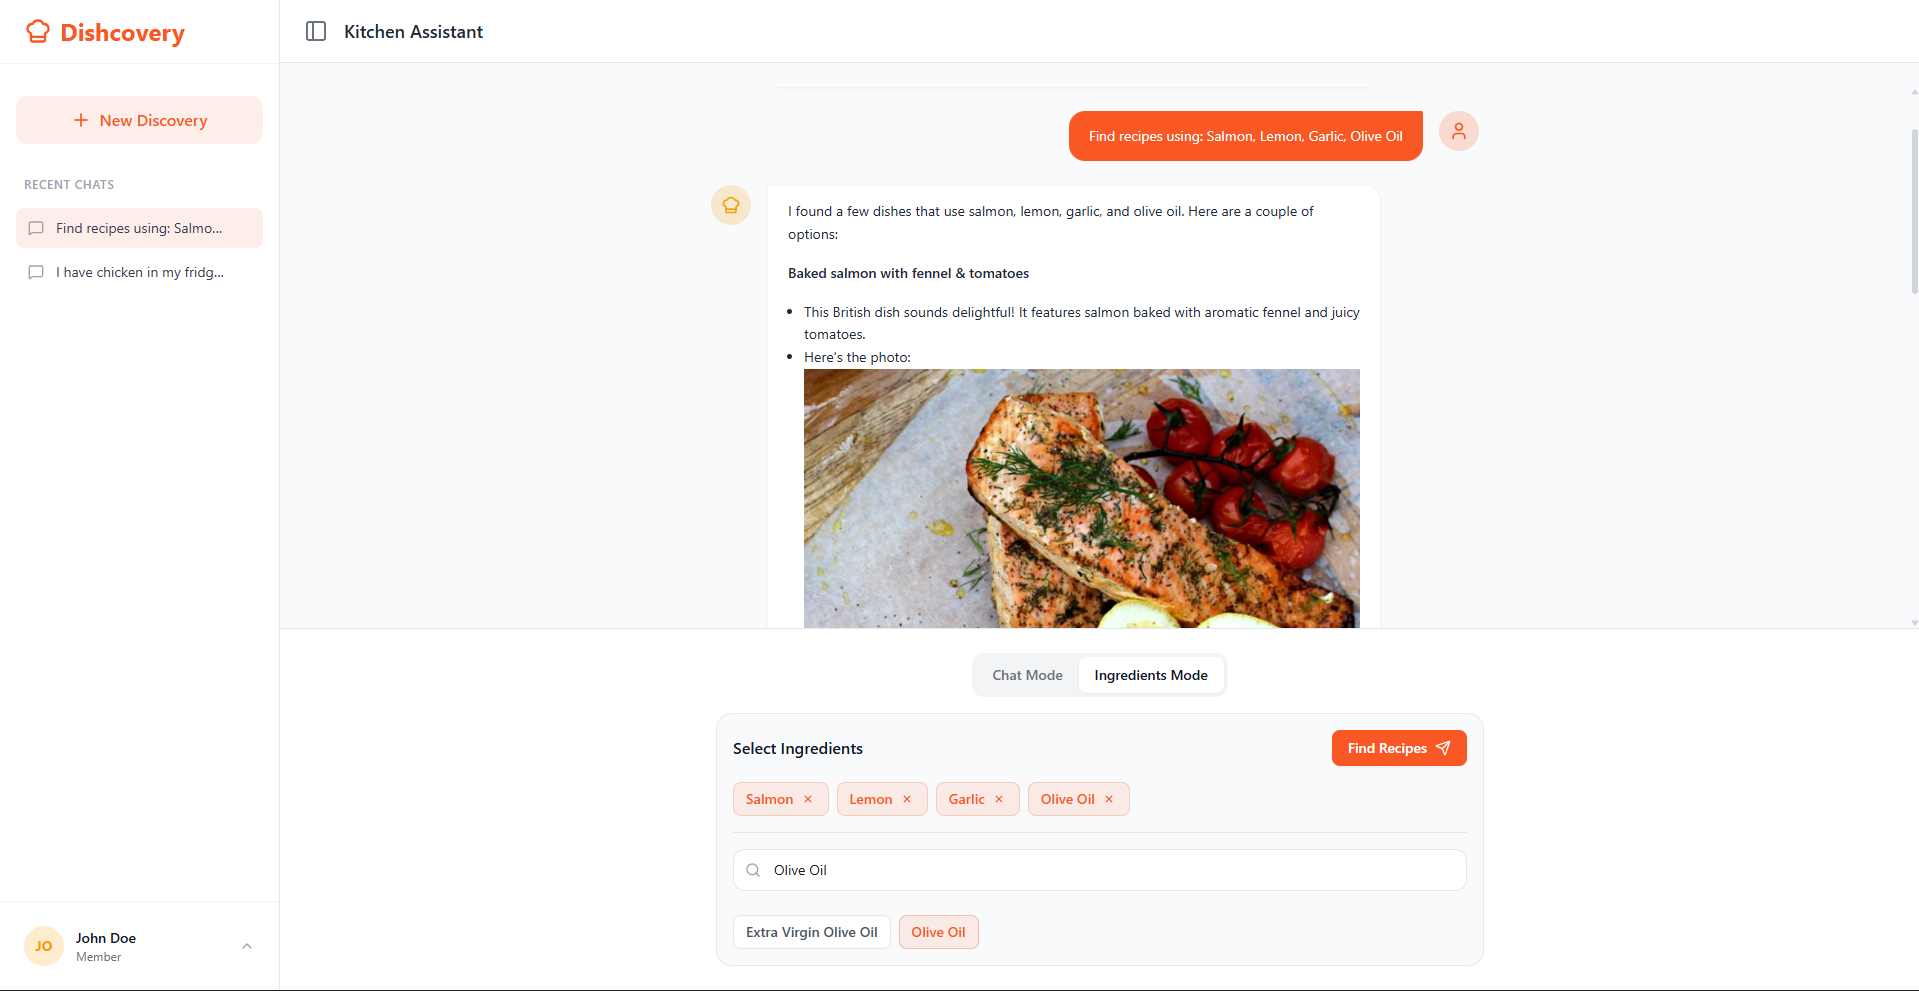
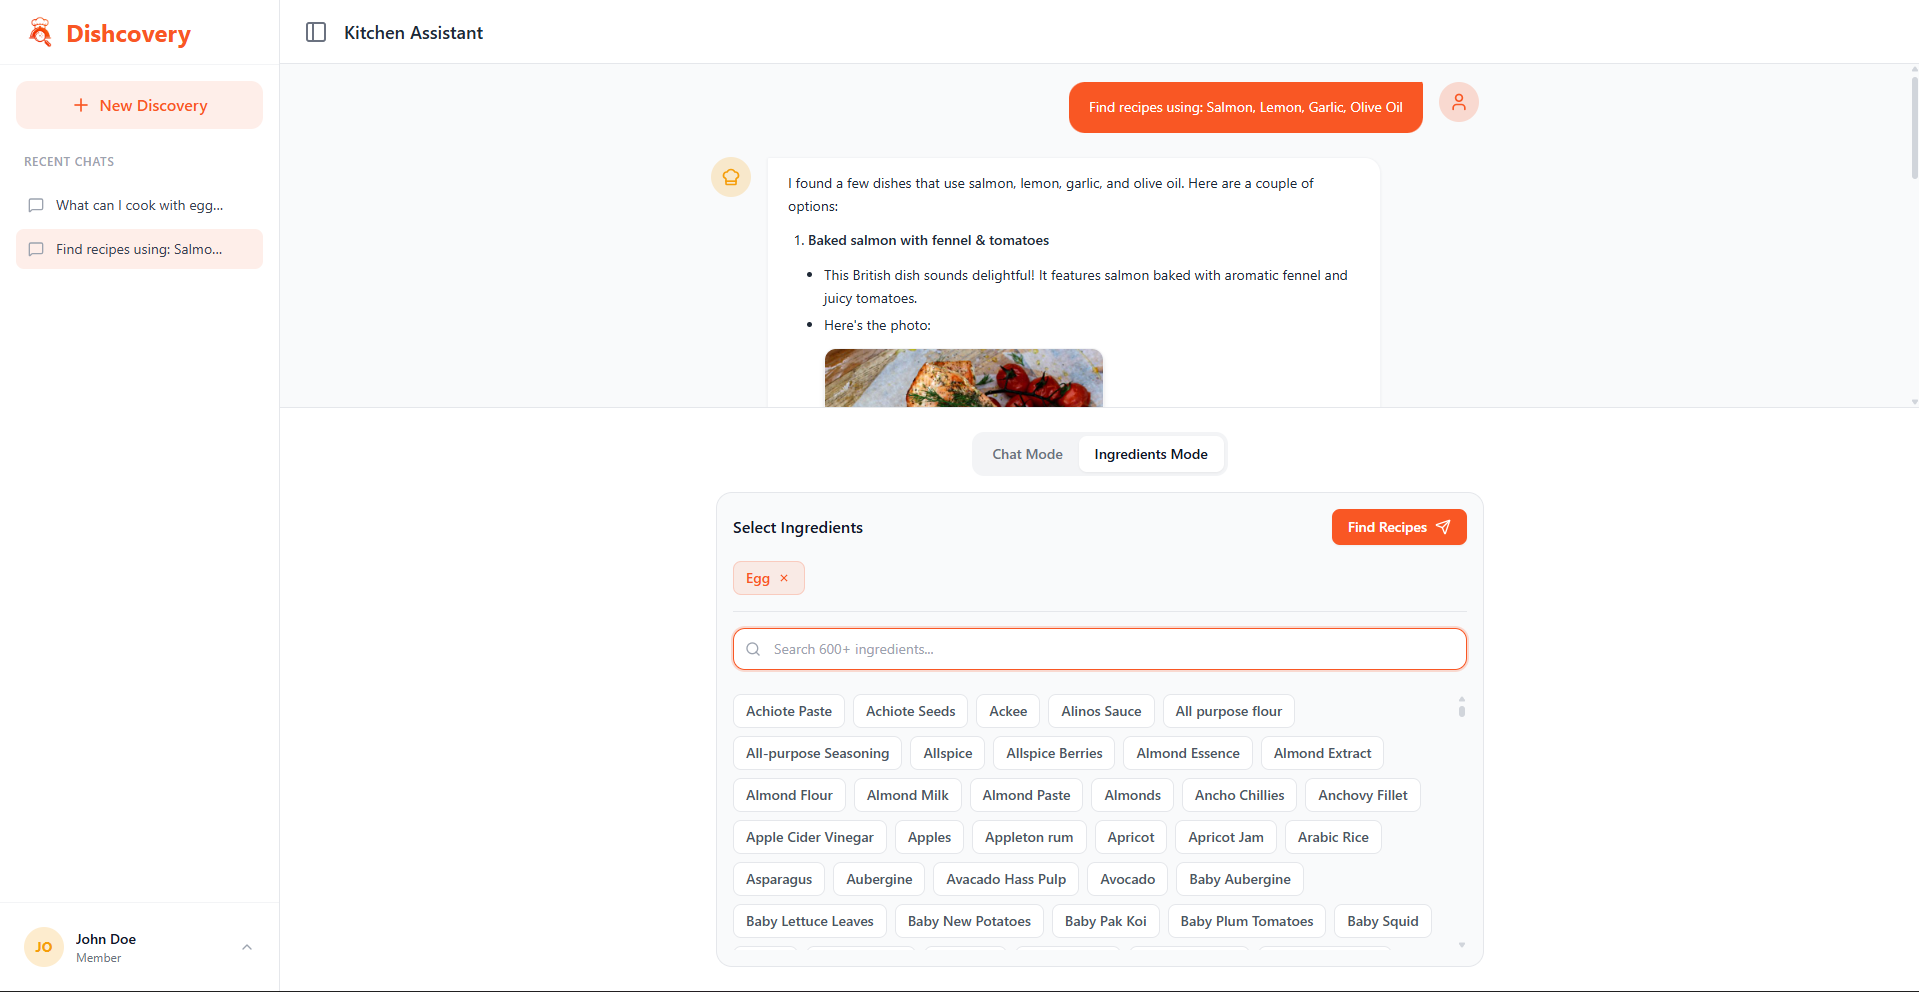
refactor(ui): encapsulate brand header in chat sidebar and update brand assets
- move brand header and logo markup into chat_sidebar component
- remove redundant brand block from dashboard template
- recolor and trim logo.png to match primary #F95724 brand theme
- update favicon.ico with the new logo icon
- refresh README.md header with inline logo and colored title
- update static mode preview screenshots

diff --git a/app/templates/pages/dashboard.html b/app/templates/pages/dashboard.html
@@ -1,4 +1,4 @@
-{% extends "layouts/base.html" %}
+{% extends "layouts/base.html" %}
 {% block title %}Dashboard — Dishcovery{% endblock %}
 
 {% block layout %}
@@ -7,14 +7,6 @@
         <aside id="sidebar"
             class="fixed inset-y-0 left-0 lg:relative bg-white border-r border-gray-200 flex flex-col z-40 flex-shrink-0 overflow-hidden transition-all duration-300 -translate-x-full lg:translate-x-0 w-[280px] lg:w-[280px]"
             style="width: 280px;">
-
-            <!-- Brand -->
-            <div class="px-6 py-4 border-b border-gray-100 flex items-center justify-between">
-                <a href="/" class="text-2xl font-bold text-primary flex items-center gap-2">
-                    <i data-lucide="chef-hat" class="text-primary w-7 h-7"></i>
-                    Dishcovery
-                </a>
-            </div>
 
             <!-- Chat Sidebar -->
             {% include "components/chat_sidebar.html" %}

diff --git a/app/templates/components/chat_sidebar.html b/app/templates/components/chat_sidebar.html
@@ -1,5 +1,13 @@
-<!-- New Chat -->
-<div class="px-4 pt-2 pb-4">
+<!-- Brand -->
+<div class="px-6 py-4 border-b border-gray-100 flex items-center justify-between">
+    <a href="/" class="text-2xl font-bold text-primary flex items-center gap-2.5">
+        <img src="{{ url_for('static', filename='img/logo.png') }}" alt="Dishcovery Logo" class="w-8 h-8 object-contain">
+        <span>Dishcovery</span>
+    </a>
+</div>
+
+<!-- New Chat -->
+<div class="px-4 pt-4 pb-2">
     <button id="btn-new-chat"
         class="w-full bg-primary/10 text-primary hover:bg-primary hover:text-white font-semibold py-3 px-4 rounded-xl transition-colors flex items-center justify-center gap-2">
         <i data-lucide="plus" class="w-5 h-5"></i>

diff --git a/README.md b/README.md
@@ -1,7 +1,9 @@
 <div align="center">
     <br />
-    <img src="app/static/img/logo.png" height="60" alt="Dishcovery Logo">
-    <br />
+    <h1>
+        <img src="app/static/img/logo.png" width="45" height="45" alt="Dishcovery Logo" style="vertical-align: middle; margin-right: 8px;" valign="middle" />
+        Dishcovery
+    </h1>
     <p>Your AI-powered culinary companion for discovering your next favorite meal.</p>
 </div>
 
